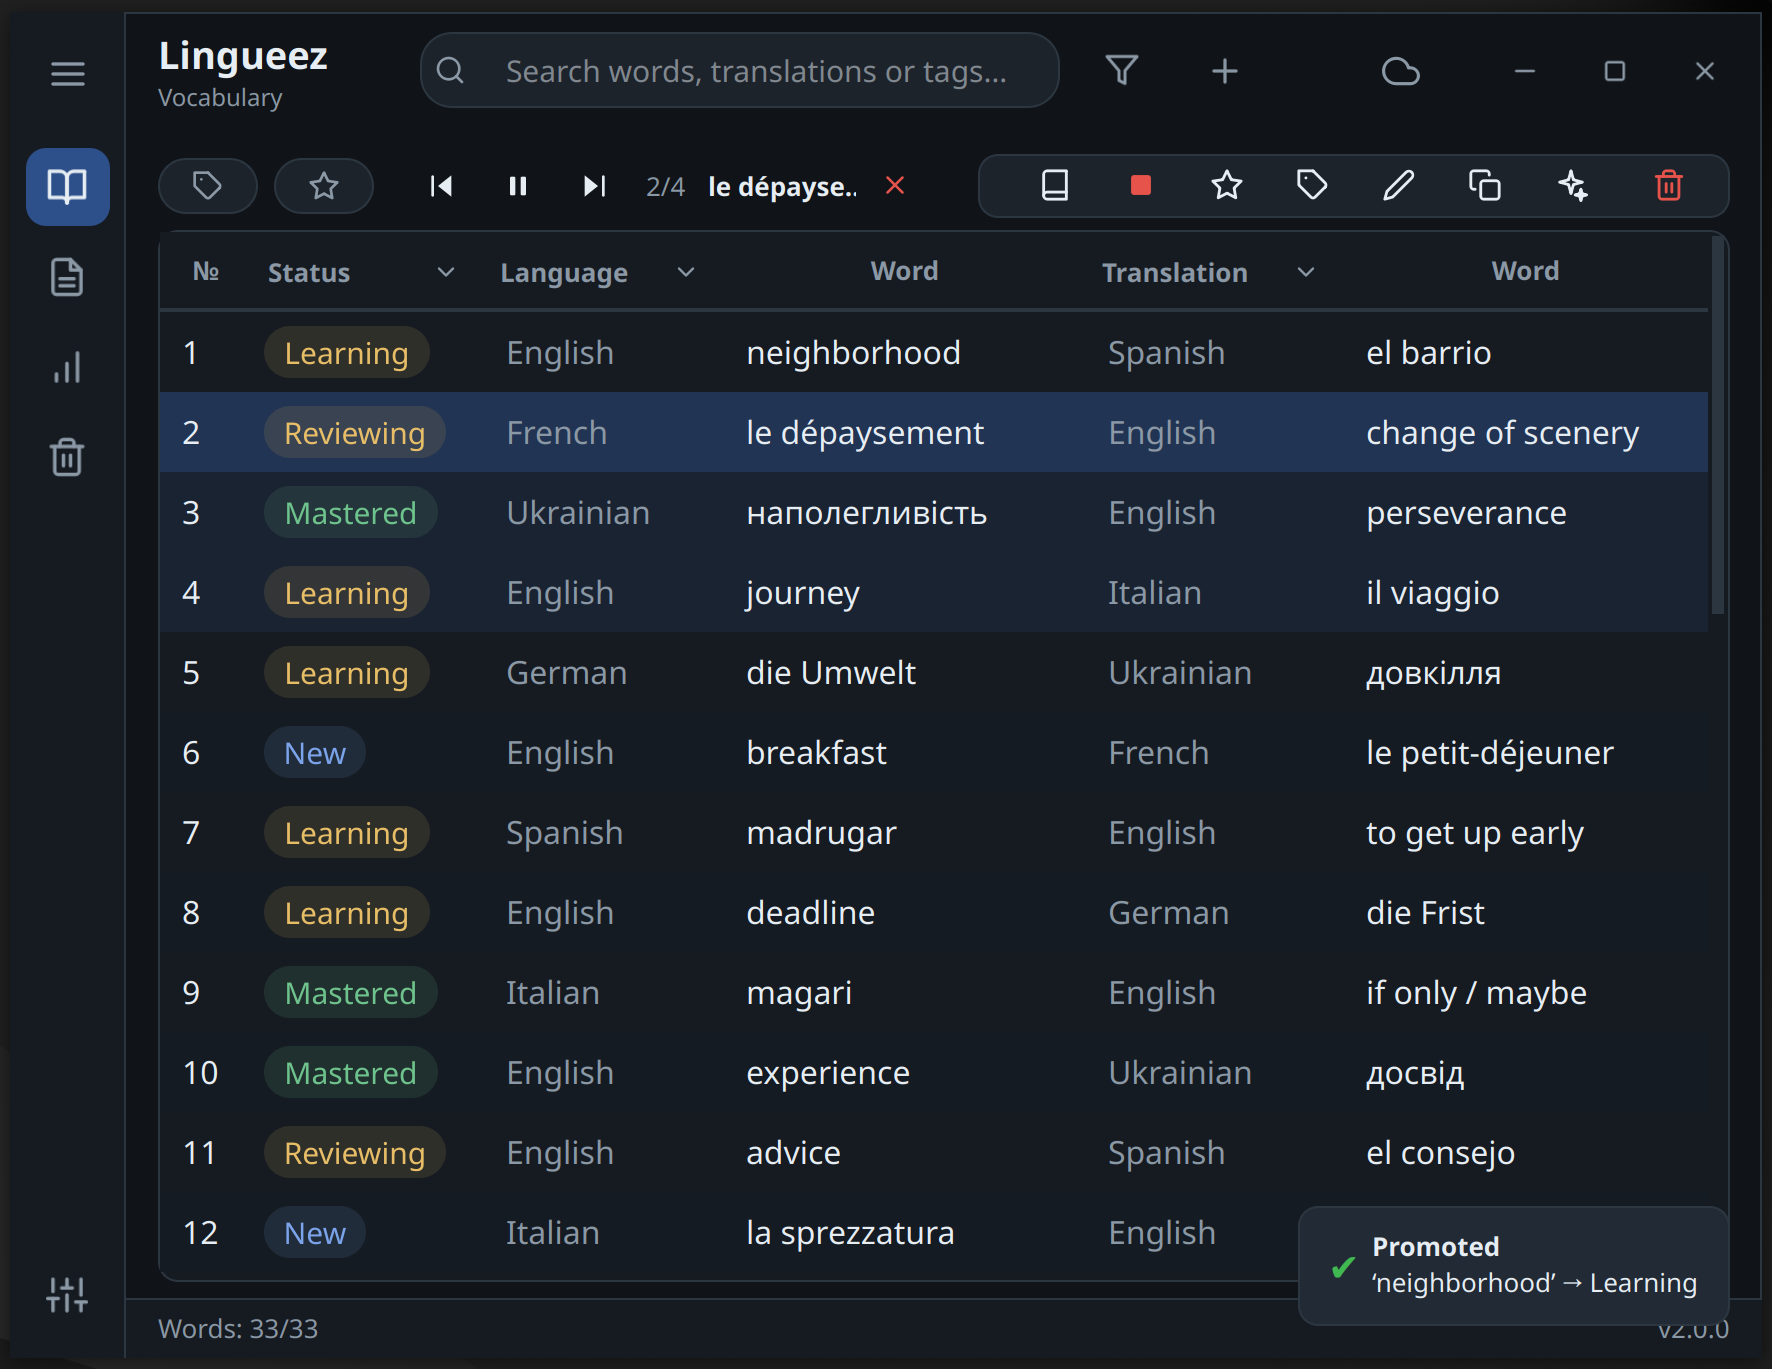
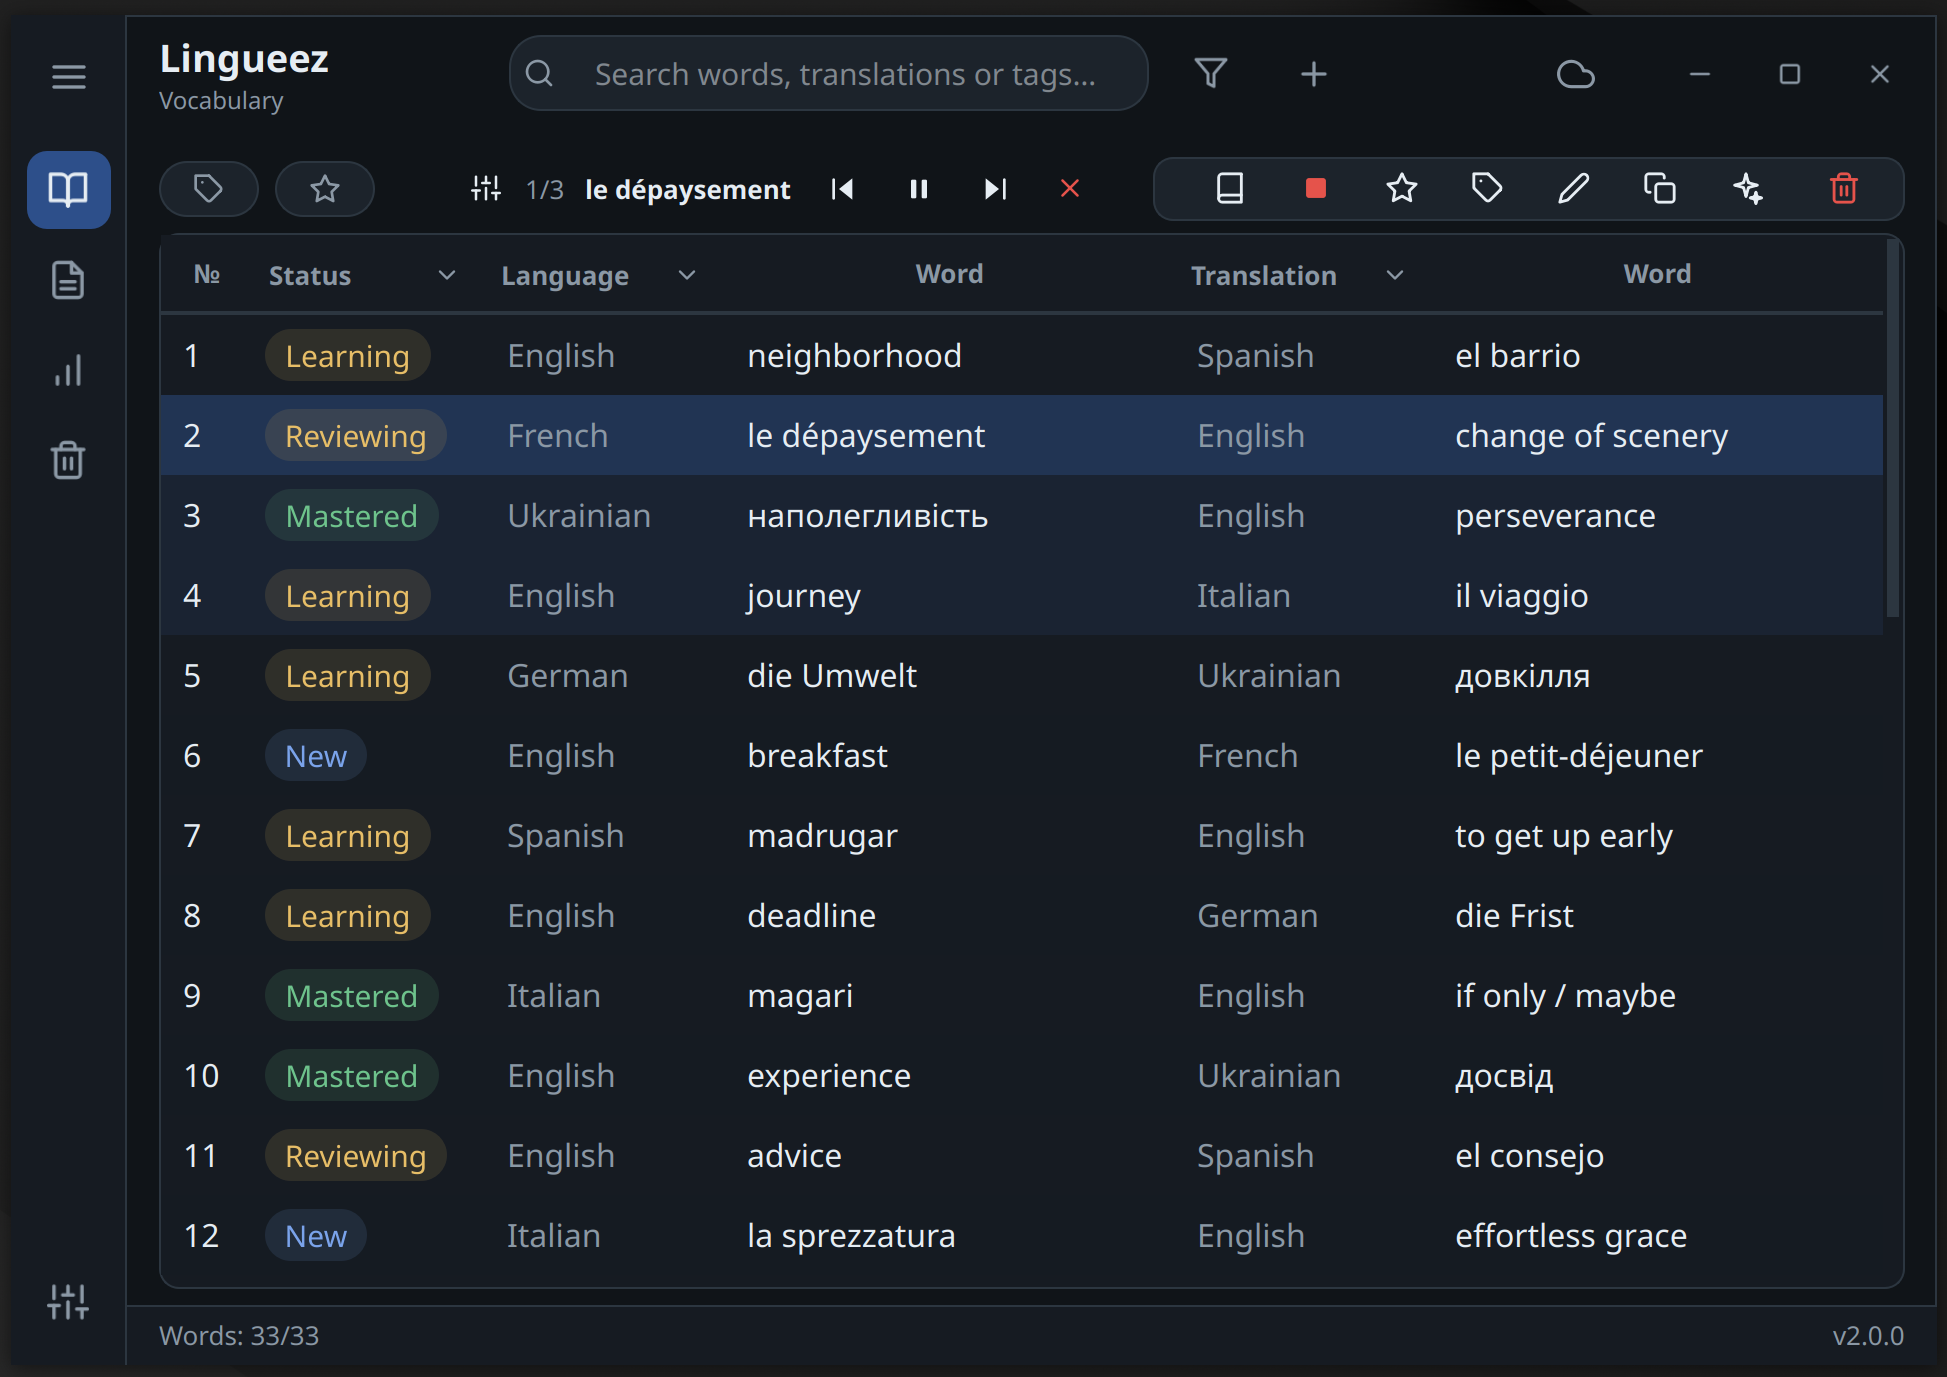
Add player configs: pause duration & repeats number

diff --git a/app/ui/player.py b/app/ui/player.py
@@ -35,7 +35,10 @@ from concurrent.futures import ThreadPoolExecutor
 
 import pygame
 from PySide6.QtCore import QObject, QSize, Qt, Signal
-from PySide6.QtWidgets import QHBoxLayout, QLabel, QPushButton, QWidget
+from PySide6.QtWidgets import (
+    QDoubleSpinBox, QFormLayout, QHBoxLayout, QLabel, QPushButton, QSpinBox,
+    QWidget,
+)
 
 from app.core import audio
 from app.ui import icons
@@ -45,12 +48,15 @@ from app.ui.widgets import ElidedLabel
 class _Session:
     """State of one playback run; a new run gets a fresh session object."""
 
-    def __init__(self, pairs, languages):
+    def __init__(self, pairs, languages, pause=0.5, repeats=1):
         self.pairs = pairs          # [(word, translation), ...]
         self.languages = languages  # [(lang1, lang2), ...]
         self.stop = threading.Event()
         self.cmds = queue.Queue()
         self.paused = False
+        # Pacing — read live each loop so the popup can tune mid-session.
+        self.pause = max(0.0, pause)     # seconds of silence between words/repeats
+        self.repeats = max(1, repeats)   # times each pair plays per pass
 
 
 class WordPlayer(QObject):
@@ -77,13 +83,25 @@ class WordPlayer(QObject):
         session = self._session
         return session is not None and not session.stop.is_set()
 
-    def play(self, pairs, languages):
+    def play(self, pairs, languages, pause=0.5, repeats=1):
         """Start a new session (stops any previous playback first)."""
         self.stop()
         audio.stop_playback()  # halt queue-based playback (texts TTS)
-        session = _Session(pairs, languages)
+        session = _Session(pairs, languages, pause=pause, repeats=repeats)
         self._session = session
         threading.Thread(target=self._run, args=(session,), daemon=True).start()
+
+    def set_pause(self, seconds):
+        """Tune the inter-word pause of the running session (live)."""
+        session = self._session
+        if session is not None:
+            session.pause = max(0.0, seconds)
+
+    def set_repeats(self, count):
+        """Tune the per-pair repeat count of the running session (live)."""
+        session = self._session
+        if session is not None:
+            session.repeats = max(1, count)
 
     def toggle_pause(self):
         self._cmd("toggle")
@@ -120,13 +138,26 @@ class WordPlayer(QObject):
                 except Exception as exc:
                     logging.error(f"Word synthesis failed: {exc}")
                     files = []
-                jump = self._play_word(session, files, i, total)
-                # A word counts as "listened" only when it played to the end:
-                # jump is None (not skipped via next/prev), the session wasn't
-                # stopped, and there was actual audio.
-                if jump is None and not session.stop.is_set() and files:
-                    self.word_completed.emit(i)
-                i = i + 1 if jump is None else jump
+                # Play the pair up to `repeats` times. Each repeat that runs to
+                # the end (jump is None, not stopped, has audio) counts as one
+                # listen. A next/prev jump breaks out immediately and is honored.
+                jump = None
+                repeats = max(1, session.repeats) if files else 1
+                for rep in range(repeats):
+                    jump = self._play_word(session, files, i, total)
+                    if jump is not None:
+                        break
+                    if not session.stop.is_set() and files:
+                        self.word_completed.emit(i)
+                    if rep < repeats - 1 and session.pause:  # gap between repeats
+                        if session.stop.wait(session.pause):
+                            break
+                if jump is None:
+                    if i + 1 < total and session.pause:  # gap before next word
+                        session.stop.wait(session.pause)
+                    i += 1
+                else:
+                    i = jump
         finally:
             session.stop.set()
             executor.shutdown(wait=False, cancel_futures=True)
@@ -232,9 +263,10 @@ class PlayerBar(QWidget):
     prev_clicked = Signal()
     toggle_clicked = Signal()
     next_clicked = Signal()
+    config_clicked = Signal()
     stop_clicked = Signal()
 
-    WORD_WIDTH = 150
+    WORD_WIDTH = 360
 
     def __init__(self, colors, parent=None):
         super().__init__(parent, objectName="PlayerBar")
@@ -245,21 +277,30 @@ class PlayerBar(QWidget):
         lay.setContentsMargins(8, 0, 8, 0)
         lay.setSpacing(2)
 
+        # The bar is right-anchored, so the variable-width metadata lives on the
+        # LEFT (its edge moves with the word length) together with the rarely-used
+        # settings button; the frequently-used transport controls + stop sit on
+        # the fixed RIGHT edge so prev/play/next/stop never shift around.
+        self.config_btn = self._button(
+            "sliders", "text", "Playback settings", self.config_clicked, 15)
+        lay.addWidget(self.config_btn)
+        self.pos_label = QLabel("", objectName="dimLabel")
+        lay.addWidget(self.pos_label)
+        # elidable + collapsible: under width pressure the metadata yields
+        # entirely so the transport controls never force the window to grow
+        # (tooltip / highlighted table row / mini player still show the word)
+        self.word_label = ElidedLabel(min_width=0)
+        self.word_label.setObjectName("PlayerWord")
+        self.word_label.setMaximumWidth(self.WORD_WIDTH)
+        lay.addWidget(self.word_label, 1)
+        lay.addSpacing(6)
+
         self.prev_btn = self._button("skip-back", "text", "Previous word", self.prev_clicked)
         lay.addWidget(self.prev_btn)
         self.play_btn = self._button("pause", "text", "Pause", self.toggle_clicked)
         lay.addWidget(self.play_btn)
         self.next_btn = self._button("skip-forward", "text", "Next word", self.next_clicked)
         lay.addWidget(self.next_btn)
-
-        lay.addSpacing(6)
-        self.pos_label = QLabel("", objectName="dimLabel")
-        lay.addWidget(self.pos_label)
-        # elidable: the pill compresses instead of widening the window
-        self.word_label = ElidedLabel(min_width=36)
-        self.word_label.setObjectName("PlayerWord")
-        self.word_label.setMaximumWidth(self.WORD_WIDTH)
-        lay.addWidget(self.word_label, 1)
 
         self.stop_btn = self._button("x", "danger", "Stop playback", self.stop_clicked, 15)
         lay.addWidget(self.stop_btn)
@@ -287,5 +328,50 @@ class PlayerBar(QWidget):
         self._colors = colors
         self.prev_btn.setIcon(icons.icon("skip-back", colors["text"], 16))
         self.next_btn.setIcon(icons.icon("skip-forward", colors["text"], 16))
+        self.config_btn.setIcon(icons.icon("sliders", colors["text"], 15))
         self.stop_btn.setIcon(icons.icon("x", colors["danger"], 15))
         self.set_paused(self._paused)
+
+
+class PlaybackSettingsPopup(QWidget):
+    """Compact flyout to tune playback pacing: pause between words and repeats.
+
+    Uses Qt.Popup so a click outside dismisses it. Values are emitted on every
+    change so the caller can persist and apply them live.
+    """
+
+    pause_changed = Signal(float)
+    repeats_changed = Signal(int)
+
+    def __init__(self, pause, repeats, parent=None):
+        super().__init__(parent, objectName="PlayerBar")
+        self.setWindowFlags(Qt.Popup | Qt.FramelessWindowHint)
+        self.setAttribute(Qt.WA_TranslucentBackground, False)
+
+        form = QFormLayout(self)
+        form.setContentsMargins(14, 12, 14, 12)
+        form.setSpacing(8)
+
+        self.pause_spin = QDoubleSpinBox()
+        self.pause_spin.setRange(0, 10)
+        self.pause_spin.setSingleStep(0.1)
+        self.pause_spin.setSuffix(" s")
+        self.pause_spin.setValue(pause)
+        self.pause_spin.valueChanged.connect(self.pause_changed.emit)
+        form.addRow(QLabel("Pause between words"), self.pause_spin)
+
+        self.repeats_spin = QSpinBox()
+        self.repeats_spin.setRange(1, 10)
+        self.repeats_spin.setSuffix("×")
+        self.repeats_spin.setValue(repeats)
+        self.repeats_spin.valueChanged.connect(self.repeats_changed.emit)
+        form.addRow(QLabel("Repeats per word"), self.repeats_spin)
+
+    def popup_at(self, anchor):
+        """Show anchored below ``anchor`` (a widget), right-aligned to it."""
+        self.adjustSize()
+        bottom_right = anchor.mapToGlobal(anchor.rect().bottomRight())
+        x = bottom_right.x() - self.width()
+        y = bottom_right.y() + 6
+        self.move(max(0, x), y)
+        self.show()

diff --git a/app/ui/main_window.py b/app/ui/main_window.py
@@ -52,7 +52,7 @@ from app.core.data_management import open_words_from_excel
 from app.ui import icons, theme
 from app.ui.animations import AnimatedStackedWidget, crossfade_during, fade_swap
 from app.ui.mini_player import MiniPlayer
-from app.ui.player import PlayerBar, WordPlayer
+from app.ui.player import PlaybackSettingsPopup, PlayerBar, WordPlayer
 from app.ui.texts_page import TextsPage
 from app.ui.stats_page import StatsPage
 from app.ui.toast import show_toast
@@ -592,7 +592,9 @@ class MainWindow(QMainWindow):
         self.player_bar.prev_clicked.connect(self.word_player.prev)
         self.player_bar.toggle_clicked.connect(self.word_player.toggle_pause)
         self.player_bar.next_clicked.connect(self.word_player.next)
+        self.player_bar.config_clicked.connect(self._open_playback_settings)
         self.player_bar.stop_clicked.connect(self.word_player.stop)
+        self._playback_popup = None
 
         # ---------- floating mini player (shown while hidden/minimized) ----------
         self.mini_player = MiniPlayer(self.colors)
@@ -1451,8 +1453,36 @@ class MainWindow(QMainWindow):
         self.player_bar.set_position(0, len(records), records[0].get('Word1', ''))
         self.mini_player.set_paused(False)
         self.mini_player.set_pair(records[0].get('Word1', ''), records[0].get('Word2', ''))
-        self.word_player.play(words, languages)
+        self.word_player.play(
+            words, languages,
+            pause=get_float(self.settings, "playback_pause", 0.5),
+            repeats=get_int(self.settings, "playback_repeats", 1))
         self._sync_mini_player()  # may already be hidden to tray
+
+    def _open_playback_settings(self):
+        """Open the compact pacing popup anchored under the bar's config button.
+
+        Changes are persisted to settings.cfg and applied live to the running
+        session (and used as the snapshot for the next session)."""
+        popup = PlaybackSettingsPopup(
+            get_float(self.settings, "playback_pause", 0.5),
+            get_int(self.settings, "playback_repeats", 1),
+            self)
+
+        def on_pause(value):
+            self.settings["playback_pause"] = f"{value:g}"
+            save_settings(self.settings)
+            self.word_player.set_pause(value)
+
+        def on_repeats(value):
+            self.settings["playback_repeats"] = str(value)
+            save_settings(self.settings)
+            self.word_player.set_repeats(value)
+
+        popup.pause_changed.connect(on_pause)
+        popup.repeats_changed.connect(on_repeats)
+        self._playback_popup = popup  # keep a reference alive
+        popup.popup_at(self.player_bar.config_btn)
 
     def _set_playback_ui(self, active):
         """Show/hide the player bar; the words-only filter chips squash to

diff --git a/app/ui/widgets.py b/app/ui/widgets.py
@@ -43,9 +43,20 @@ class ElidedLabel(QLabel):
     def minimumSizeHint(self):
         return QSize(self._min_width, super().minimumSizeHint().height())
 
+    def sizeHint(self):
+        # Preferred width tracks the FULL text (not the currently elided text),
+        # so a layout keeps offering room to show the whole word; the small
+        # minimumSizeHint still lets it be squeezed. Without this, once the
+        # label elides to nothing it would report a ~0 hint and never grow back.
+        fm = self.fontMetrics()
+        # margin must exceed _refit's 2px so the full text fits without eliding
+        width = fm.horizontalAdvance(self._full) + 8
+        return QSize(max(self._min_width, width), super().sizeHint().height())
+
     def set_full_text(self, text):
         self._full = text or ""
         self.setToolTip(self._full)
+        self.updateGeometry()  # sizeHint depends on _full; re-query the layout
         self._refit()
 
     def resizeEvent(self, event):

diff --git a/app/ui/dialogs/settings_dialog.py b/app/ui/dialogs/settings_dialog.py
@@ -359,6 +359,12 @@ class SettingsDialog(FramelessDialog):
         form.addRow("Voice type", self._combo("google_cloud_tts_voice_type", ["standard", "wavenet"]))
         form.addRow("Voice name (optional)", self._line("google_cloud_tts_voice_name"))
 
+        playback_group = QGroupBox("Read Aloud playback")
+        pform = QFormLayout(playback_group)
+        pform.addRow("Pause between words (s)", self._dspin("playback_pause", 0, 10, 0.5))
+        pform.addRow("Repeats per word", self._spin("playback_repeats", 1, 10, 1))
+        form.addRow(playback_group)
+
         note = QLabel("The voice used everywhere words are spoken: in-app Read Aloud "
                       "and MP3 export. gTTS is free and needs no setup. Google Cloud TTS "
                       "needs a service-account JSON key (Cloud Console → IAM & Admin → "

diff --git a/app/config.py b/app/config.py
@@ -40,6 +40,9 @@ DEFAULTS = {
     "number_of_repeats": "1",
     "max_concurrent_workers": "2",
     "requests_per_sec": "5",
+    # Playback pacing (live word player)
+    "playback_pause": "0.5",               # seconds of silence between words
+    "playback_repeats": "1",               # times each pair is played per pass
     # Playback-driven learning progression (cumulative completed listens per rung)
     "playback_promote": "True",            # promote word status while listening
     "playback_reviewing_listens": "3",     # listens to reach Reviewing

diff --git a/app/version.py b/app/version.py
@@ -20,6 +20,6 @@
 # SPDX-License-Identifier: AGPL-3.0-or-later
 
 APP_VERSION = "2.0.0"
-BUILD_NUMBER = "2026061405"
+BUILD_NUMBER = "2026061406"
 APP_NAME = "Lingueez"
 APP_ID = "Lingueez"  # WM_CLASS / desktop-file basename